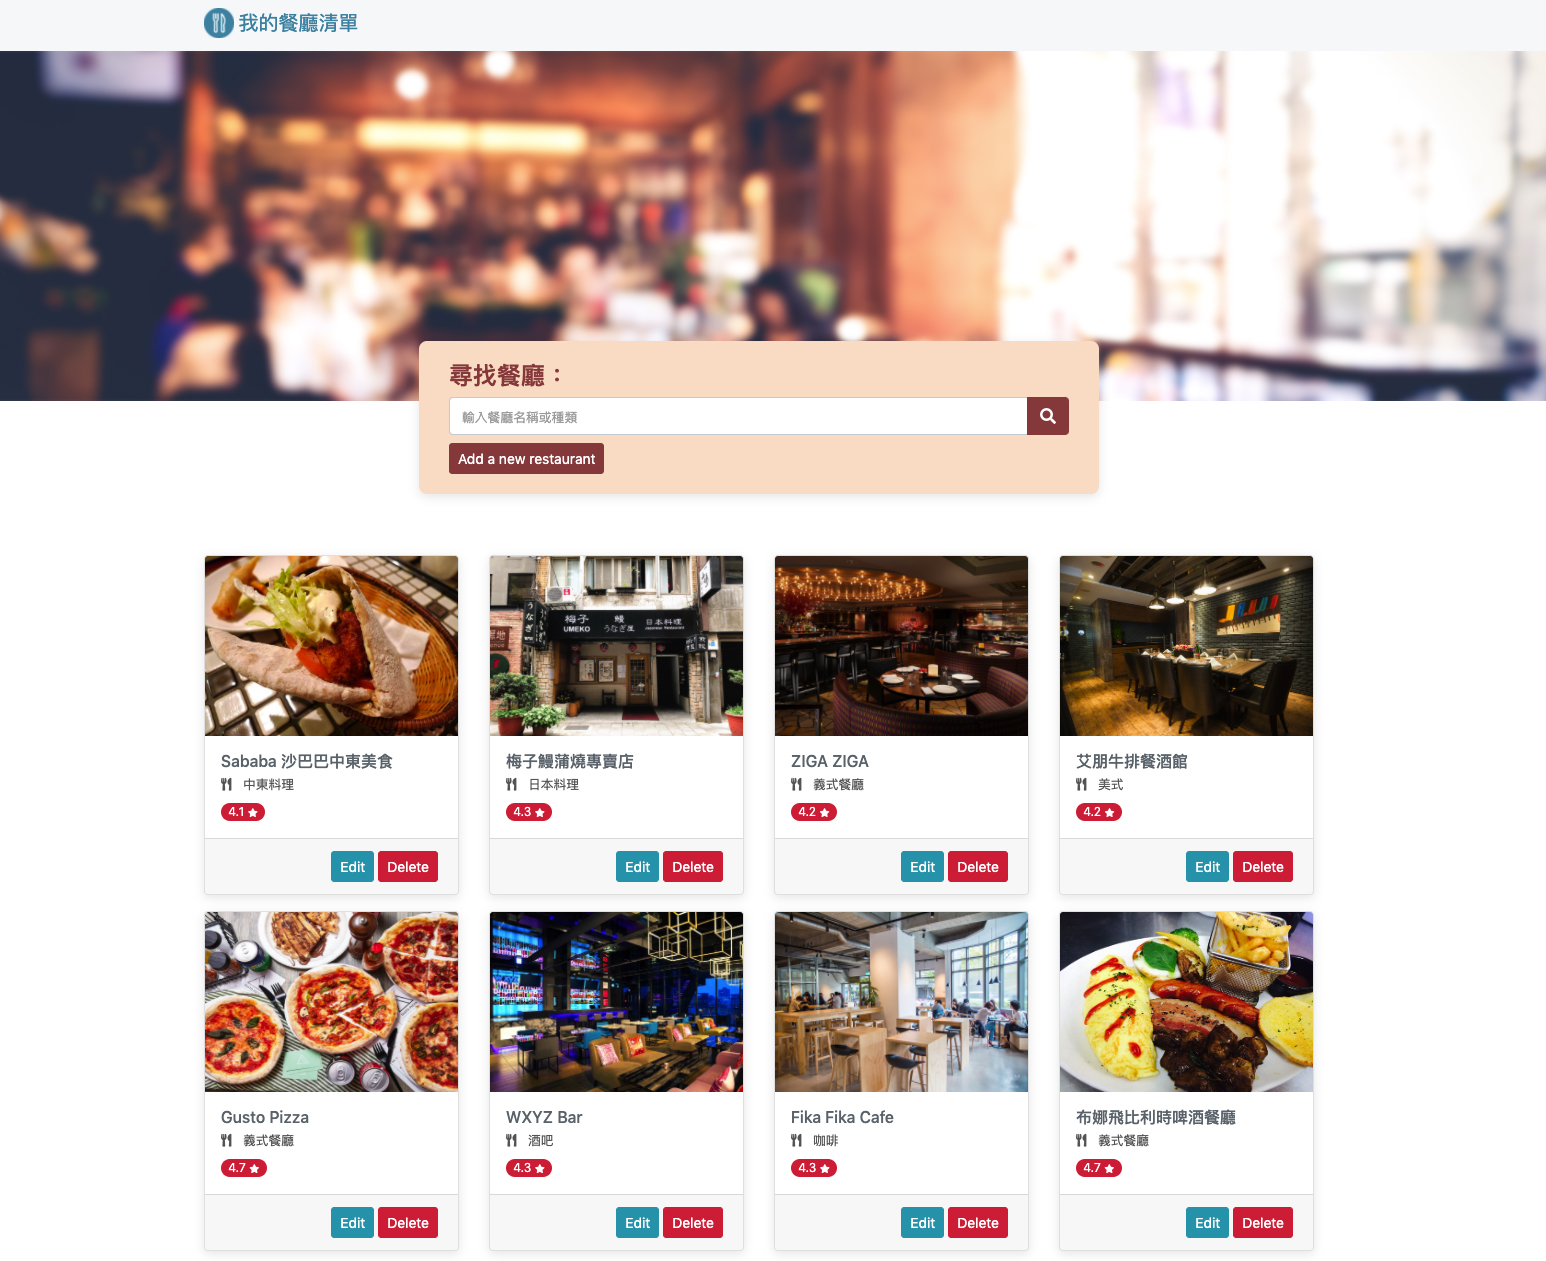
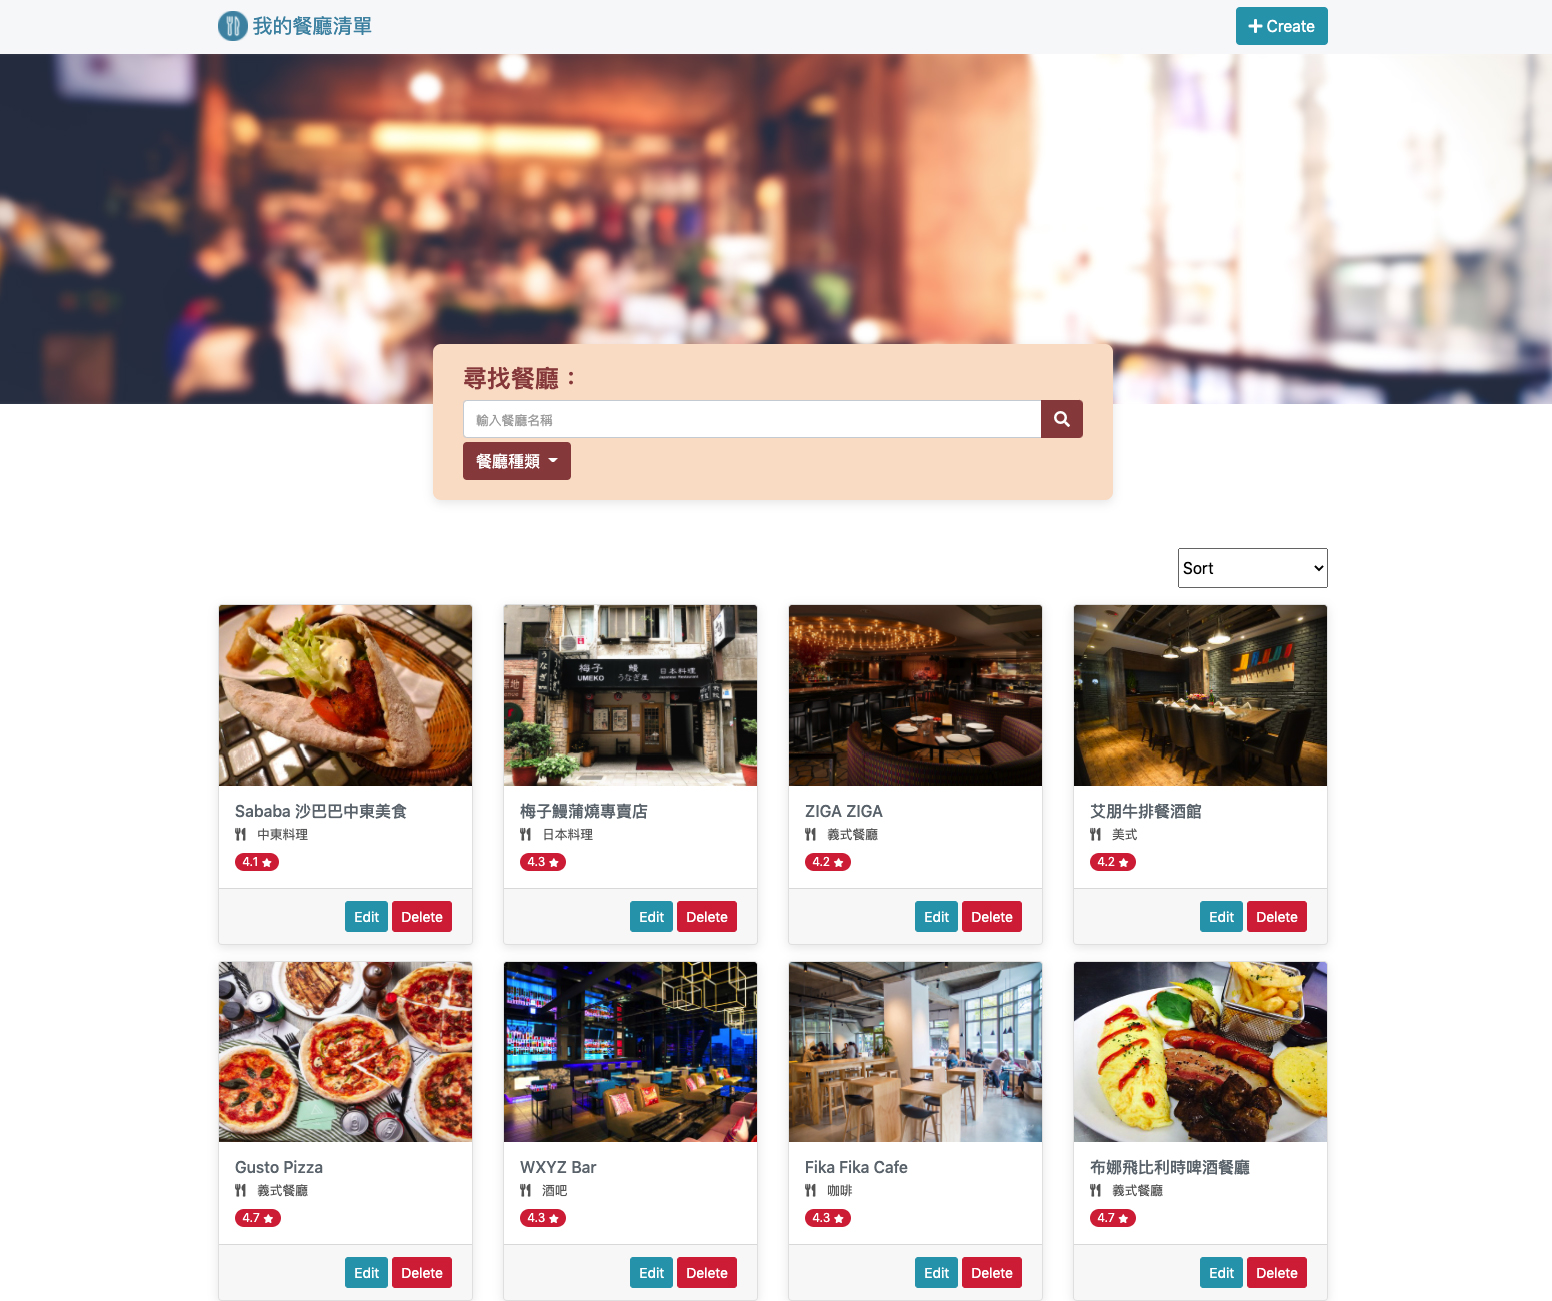
feat: modify README.md and update new website screenshot

diff --git a/README.md b/README.md
@@ -8,18 +8,20 @@ This is a web application for you to list whatever restaurant you like.
 ### Features
 ---
 - searching restaurants by title
-- searching restaurants by category
+- filtering restaurants by category using "餐廳種類" dropdown menu
 - clicking the restaurant image or title to see its detail information 
-- clicking the "Add a new restaurant" button to create a new item to the list
-- clicking "Edit" button to modify the detail information of certain restaurant
+- clicking the "create" button to create a new item to the list
+- clicking "Edit" button to modify the detail information of chosen restaurant
 - clicking "Delete" button to remove the restaurant from the list
+- Using sorting dropdown menu to arrange restaurants
 
 ### UX Features
 ---
-- confirm message will pop up before deletion
+- confirmation message will pop up before deletion
+- confirmation message will pop up before quitting editing
 - reminder of no search result 
-- reminder of empty search keyword
-- if search keyword only consists of spaces, user will be redirected to the home page.
+- reminder of no restaurant on the list 
+- if search keyword only consists of spaces or is empty, user won't be able to submit the query.
 
 ### How to use
 ---
@@ -87,3 +89,4 @@ http://localhost:3000
 - mongoose: v5.10.7
 - MongoDB: v4.2.9
 - Robo 3T: v1.4.1
+- method-override: v3.0.0
